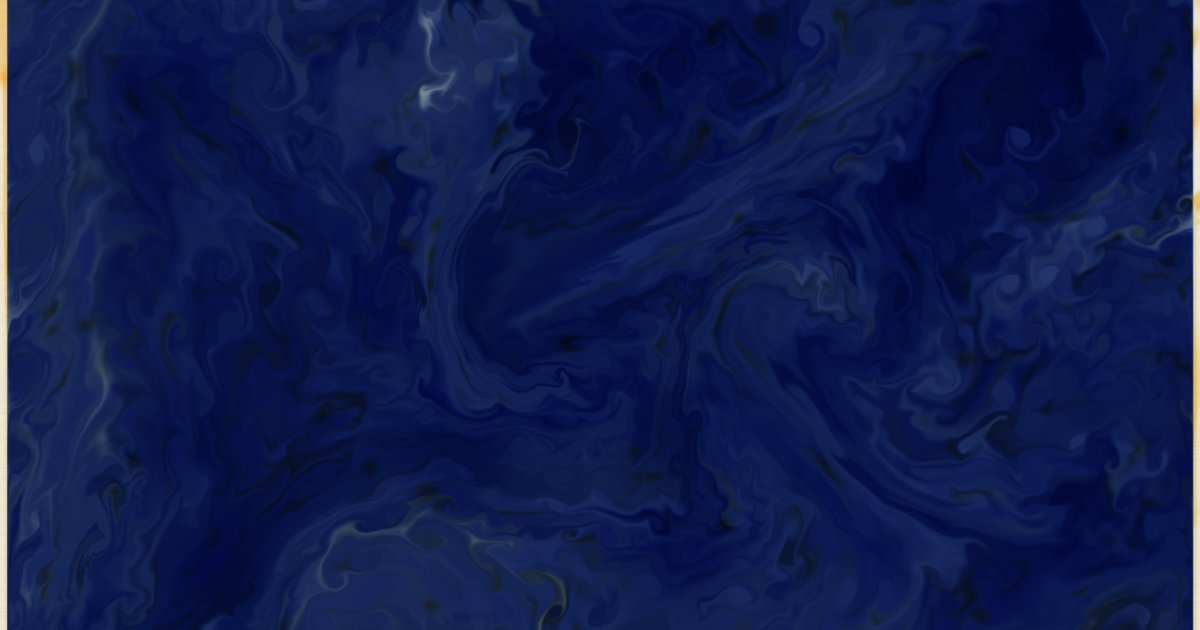
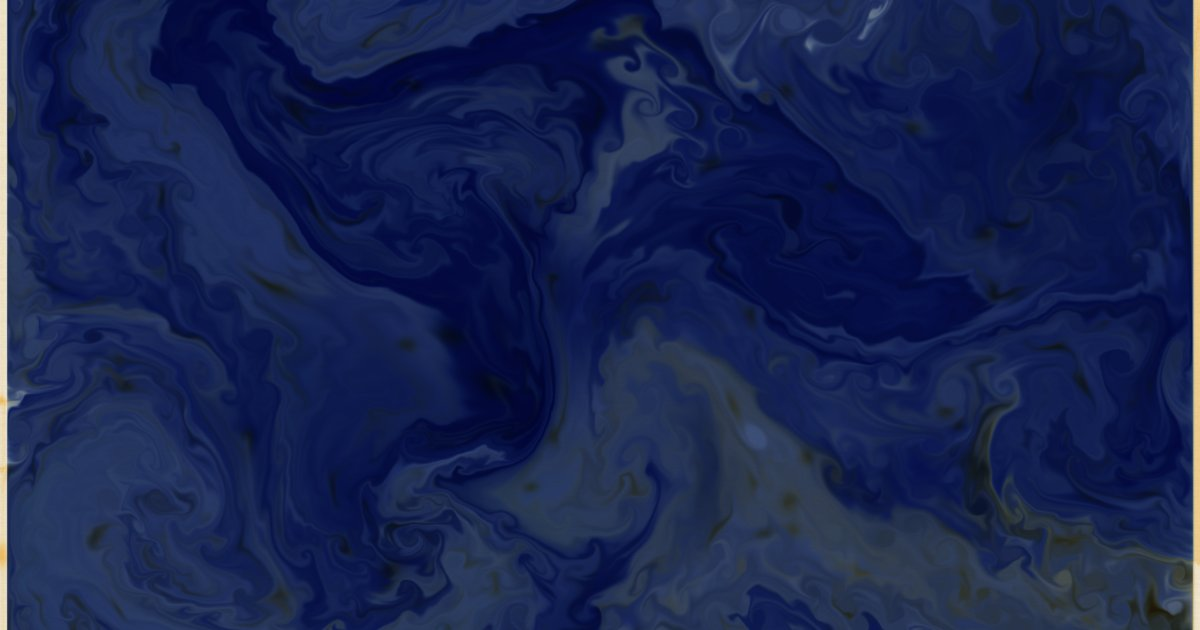
sheets 2026-11-21

diff --git a/site/sheets/index.html b/site/sheets/index.html
@@ -1,6 +1,6 @@
 <!DOCTYPE html><html lang="en-GB"><head><meta charset="utf-8"><meta name="viewport" content="width=device-width,initial-scale=1">
 <title>Sheets · æsthetoica</title><meta name="description" content="Every marbled sheet pulled from the tray, one a day, numbered on from Thomasin Gale&#x27;s first in 1823.">
-<link rel="canonical" href="https://aesthetoica.com/sheets/"><meta property="og:type" content="website"><meta property="og:site_name" content="æsthetoica"><meta property="og:locale" content="en_GB"><meta property="og:url" content="https://aesthetoica.com/sheets/"><meta property="og:title" content="Sheets · æsthetoica"><meta property="og:description" content="Every marbled sheet pulled from the tray, one a day, numbered on from Thomasin Gale&#x27;s first in 1823."><meta property="og:image" content="https://aesthetoica.com/sheets/74133/og.jpg"><meta property="og:image:width" content="1200"><meta property="og:image:height" content="630"><meta property="og:image:alt" content="A marbled sheet"><meta name="twitter:card" content="summary_large_image"><meta name="twitter:title" content="Sheets · æsthetoica"><meta name="twitter:description" content="Every marbled sheet pulled from the tray, one a day, numbered on from Thomasin Gale&#x27;s first in 1823."><meta name="twitter:image" content="https://aesthetoica.com/sheets/74133/og.jpg">
+<link rel="canonical" href="https://aesthetoica.com/sheets/"><meta property="og:type" content="website"><meta property="og:site_name" content="æsthetoica"><meta property="og:locale" content="en_GB"><meta property="og:url" content="https://aesthetoica.com/sheets/"><meta property="og:title" content="Sheets · æsthetoica"><meta property="og:description" content="Every marbled sheet pulled from the tray, one a day, numbered on from Thomasin Gale&#x27;s first in 1823."><meta property="og:image" content="https://aesthetoica.com/sheets/74134/og.jpg"><meta property="og:image:width" content="1200"><meta property="og:image:height" content="630"><meta property="og:image:alt" content="A marbled sheet"><meta name="twitter:card" content="summary_large_image"><meta name="twitter:title" content="Sheets · æsthetoica"><meta name="twitter:description" content="Every marbled sheet pulled from the tray, one a day, numbered on from Thomasin Gale&#x27;s first in 1823."><meta name="twitter:image" content="https://aesthetoica.com/sheets/74134/og.jpg">
 <link rel="icon" href="/favicon.ico" sizes="any"><link rel="icon" href="/favicon.svg" type="image/svg+xml"><link rel="apple-touch-icon" href="/apple-touch-icon.png"><link rel="manifest" href="/site.webmanifest"><meta name="theme-color" content="#1f1b18"><link rel="preconnect" href="https://fonts.googleapis.com"><link rel="preconnect" href="https://fonts.gstatic.com" crossorigin><link href="https://fonts.googleapis.com/css2?family=IM+Fell+Double+Pica&family=IM+Fell+English:ital@0;1&family=IM+Fell+English+SC&family=Mrs+Saint+Delafield&display=swap" rel="stylesheet"><style>*{box-sizing:border-box;margin:0;padding:0}body{background:#1f1b18;color:#d8cdb8;font-family:'IM Fell English',Georgia,serif;min-height:100vh}
 a{color:inherit;text-underline-offset:3px}.top{display:flex;justify-content:space-between;align-items:flex-end;padding:22px 5vw 18px}
 .wm{font-family:'IM Fell Double Pica',serif;font-size:44px;color:#efe4cf;text-decoration:none}.nav{font-size:16px;color:#bfb29b}.nav a{margin-left:16px}
@@ -13,8 +13,9 @@ a{color:inherit;text-underline-offset:3px}.top{display:flex;justify-content:spac
 .grid{display:grid;grid-template-columns:repeat(auto-fill,minmax(250px,1fr));gap:28px 26px;padding:10px 5vw 60px}.card{text-decoration:none;color:inherit}
 .card img{width:100%;aspect-ratio:3/2;object-fit:cover;display:block;box-shadow:0 4px 10px rgba(0,0,0,.5)}.card .no{margin-top:10px;font-size:18px;color:#efe4cf}.card .dd{font-style:italic;font-size:14.5px;color:#a99c86}
 .card .ln{font-family:'Mrs Saint Delafield',cursive;font-size:24px;line-height:1.05;color:#c9d2ea;margin-top:4px}
-h1.ar{font-family:'IM Fell Double Pica',serif;font-weight:400;font-size:40px;padding:0 5vw;color:#efe4cf}.sub{font-style:italic;color:#a99c86;padding:4px 5vw 18px}</style><script type="application/ld+json">{"@context": "https://schema.org", "@graph": [{"@type": "CollectionPage", "@id": "https://aesthetoica.com/sheets/", "url": "https://aesthetoica.com/sheets/", "name": "Sheets", "description": "Every marbled sheet pulled from the tray, one a day, numbered on from Thomasin Gale's first in 1823.", "isPartOf": {"@id": "https://aesthetoica.com/#website"}, "creator": {"@id": "https://andy.fm/#andy"}, "hasPart": [{"@type": "VisualArtwork", "name": "Sheet No. 74,133", "url": "https://aesthetoica.com/sheets/74133/", "dateCreated": "2026-11-20"}, {"@type": "VisualArtwork", "name": "Sheet No. 74,132", "url": "https://aesthetoica.com/sheets/74132/", "dateCreated": "2026-11-19"}, {"@type": "VisualArtwork", "name": "Sheet No. 74,131", "url": "https://aesthetoica.com/sheets/74131/", "dateCreated": "2026-11-18"}, {"@type": "VisualArtwork", "name": "Sheet No. 74,130", "url": "https://aesthetoica.com/sheets/74130/", "dateCreated": "2026-11-17"}]}, {"@type": "Person", "@id": "https://andy.fm/#andy", "name": "Andy Killworth", "url": "https://andy.fm/", "sameAs": ["https://www.linkedin.com/in/andy-killworth/", "https://andy.fm/"]}]}</script></head><body><div class="top"><a class="wm" href="/">æsthetoica</a><div class="nav"><a href="/">Today’s tray</a><a href="/#on-the-word">On the word</a><a href="/about/">About</a></div></div>
-<h1 class="ar">Sheets</h1><div class="sub">Pulled at midnight, one a day. Numbered on from Thomasin Gale’s first, 3 December 1823.</div><div class="grid"><a class="card" href="/sheets/74133/"><img src="/sheets/74133/sheet.jpg" alt="Sheet No. 74,133" loading="lazy"><div class="no">Sheet No. 74,133</div><div class="dd">20 November 2026</div><div class="ln">Blue drops, over a thousand, unaccountable. Green slow, ochre as usual, nine red lines in the small hours.</div></a>
+h1.ar{font-family:'IM Fell Double Pica',serif;font-weight:400;font-size:40px;padding:0 5vw;color:#efe4cf}.sub{font-style:italic;color:#a99c86;padding:4px 5vw 18px}</style><script type="application/ld+json">{"@context": "https://schema.org", "@graph": [{"@type": "CollectionPage", "@id": "https://aesthetoica.com/sheets/", "url": "https://aesthetoica.com/sheets/", "name": "Sheets", "description": "Every marbled sheet pulled from the tray, one a day, numbered on from Thomasin Gale's first in 1823.", "isPartOf": {"@id": "https://aesthetoica.com/#website"}, "creator": {"@id": "https://andy.fm/#andy"}, "hasPart": [{"@type": "VisualArtwork", "name": "Sheet No. 74,134", "url": "https://aesthetoica.com/sheets/74134/", "dateCreated": "2026-11-21"}, {"@type": "VisualArtwork", "name": "Sheet No. 74,133", "url": "https://aesthetoica.com/sheets/74133/", "dateCreated": "2026-11-20"}, {"@type": "VisualArtwork", "name": "Sheet No. 74,132", "url": "https://aesthetoica.com/sheets/74132/", "dateCreated": "2026-11-19"}, {"@type": "VisualArtwork", "name": "Sheet No. 74,131", "url": "https://aesthetoica.com/sheets/74131/", "dateCreated": "2026-11-18"}, {"@type": "VisualArtwork", "name": "Sheet No. 74,130", "url": "https://aesthetoica.com/sheets/74130/", "dateCreated": "2026-11-17"}]}, {"@type": "Person", "@id": "https://andy.fm/#andy", "name": "Andy Killworth", "url": "https://andy.fm/", "sameAs": ["https://www.linkedin.com/in/andy-killworth/", "https://andy.fm/"]}]}</script></head><body><div class="top"><a class="wm" href="/">æsthetoica</a><div class="nav"><a href="/">Today’s tray</a><a href="/#on-the-word">On the word</a><a href="/about/">About</a></div></div>
+<h1 class="ar">Sheets</h1><div class="sub">Pulled at midnight, one a day. Numbered on from Thomasin Gale’s first, 3 December 1823.</div><div class="grid"><a class="card" href="/sheets/74134/"><img src="/sheets/74134/sheet.jpg" alt="Sheet No. 74,134" loading="lazy"><div class="no">Sheet No. 74,134</div><div class="dd">21 November 2026</div><div class="ln">Ochre as usual, green middling and steady. Blue fell in over eleven hundred drops, and no combing.</div></a>
+<a class="card" href="/sheets/74133/"><img src="/sheets/74133/sheet.jpg" alt="Sheet No. 74,133" loading="lazy"><div class="no">Sheet No. 74,133</div><div class="dd">20 November 2026</div><div class="ln">Blue drops, over a thousand, unaccountable. Green slow, ochre as usual, nine red lines in the small hours.</div></a>
 <a class="card" href="/sheets/74132/"><img src="/sheets/74132/sheet.jpg" alt="Sheet No. 74,132" loading="lazy"><div class="no">Sheet No. 74,132</div><div class="dd">19 November 2026</div><div class="ln">Ochre as usual, green steady. A hundred red lines before dawn, and blue drops past twelve hundred. Not combed.</div></a>
 <a class="card" href="/sheets/74131/"><img src="/sheets/74131/sheet.jpg" alt="Sheet No. 74,131" loading="lazy"><div class="no">Sheet No. 74,131</div><div class="dd">18 November 2026</div><div class="ln">Ochre usual, green steady. Red lines 66, all in the night hours, and blue drops 818. Not combed.</div></a>
 <a class="card" href="/sheets/74130/"><img src="/sheets/74130/sheet.jpg" alt="Sheet No. 74,130" loading="lazy"><div class="no">Sheet No. 74,130</div><div class="dd">17 November 2026</div><div class="ln">Ochre as usual, green steady. Blue came in 58 drops, red only four lines in the evening, and no combing.</div></a></div></body></html>

diff --git a/site/sheets/74134/index.html b/site/sheets/74134/index.html
@@ -1,0 +1,26 @@
+<!DOCTYPE html><html lang="en-GB"><head><meta charset="utf-8"><meta name="viewport" content="width=device-width,initial-scale=1">
+<title>Sheet No. 74,134 · 21 November 2026 · æsthetoica</title><meta name="description" content="Ochre as usual, green middling and steady. Blue fell in over eleven hundred drops, and no combing. The marbled sheet for 21 November 2026, made from cosmic rays, the magnetic field, meteors and other things that passed Lyme Regis unseen.">
+<link rel="canonical" href="https://aesthetoica.com/sheets/74134/"><meta property="og:type" content="article"><meta property="og:site_name" content="æsthetoica"><meta property="og:locale" content="en_GB"><meta property="og:url" content="https://aesthetoica.com/sheets/74134/"><meta property="og:title" content="Sheet No. 74,134 · 21 November 2026 · æsthetoica"><meta property="og:description" content="Ochre as usual, green middling and steady. Blue fell in over eleven hundred drops, and no combing. The marbled sheet for 21 November 2026, made from cosmic rays, the magnetic field, meteors and other things that passed Lyme Regis unseen."><meta property="og:image" content="https://aesthetoica.com/sheets/74134/og.jpg"><meta property="og:image:width" content="1200"><meta property="og:image:height" content="630"><meta property="og:image:alt" content="Marbled sheet No. 74,134, 21 November 2026"><meta name="twitter:card" content="summary_large_image"><meta name="twitter:title" content="Sheet No. 74,134 · 21 November 2026 · æsthetoica"><meta name="twitter:description" content="Ochre as usual, green middling and steady. Blue fell in over eleven hundred drops, and no combing. The marbled sheet for 21 November 2026, made from cosmic rays, the magnetic field, meteors and other things that passed Lyme Regis unseen."><meta name="twitter:image" content="https://aesthetoica.com/sheets/74134/og.jpg">
+<link rel="icon" href="/favicon.ico" sizes="any"><link rel="icon" href="/favicon.svg" type="image/svg+xml"><link rel="apple-touch-icon" href="/apple-touch-icon.png"><link rel="manifest" href="/site.webmanifest"><meta name="theme-color" content="#1f1b18">
+<link rel="preconnect" href="https://fonts.googleapis.com"><link rel="preconnect" href="https://fonts.gstatic.com" crossorigin><link href="https://fonts.googleapis.com/css2?family=IM+Fell+Double+Pica&family=IM+Fell+English:ital@0;1&family=IM+Fell+English+SC&family=Mrs+Saint+Delafield&display=swap" rel="stylesheet"><style>*{box-sizing:border-box;margin:0;padding:0}body{background:#1f1b18;color:#d8cdb8;font-family:'IM Fell English',Georgia,serif;min-height:100vh}
+a{color:inherit;text-underline-offset:3px}.top{display:flex;justify-content:space-between;align-items:flex-end;padding:22px 5vw 18px}
+.wm{font-family:'IM Fell Double Pica',serif;font-size:44px;color:#efe4cf;text-decoration:none}.nav{font-size:16px;color:#bfb29b}.nav a{margin-left:16px}
+.leaf{max-width:1100px;margin:0 auto 60px;padding:0 5vw}.sheet{position:relative;box-shadow:0 6px 14px rgba(0,0,0,.55)}.sheet img{display:block;width:100%;height:auto}
+.plate{position:absolute;right:24px;bottom:22px;width:230px;padding:12px 16px 11px;background:#efe6d2;color:#3a2b1f;transform:rotate(-1.2deg);box-shadow:0 1px 2px rgba(60,40,20,.35)}
+.plate .t{font-family:'IM Fell English SC',serif;font-size:15px}.plate .n{font-size:26px;line-height:1.05}.plate .d{font-style:italic;font-size:15px;color:#5a4330}
+.note{background:#f1e9d6;color:#2f241b;margin-top:28px;padding:30px 40px 34px}.ledger{font-family:'Mrs Saint Delafield',cursive;font-size:34px;line-height:1.15;color:#2c3550}
+.note h2{font-family:'IM Fell English SC',serif;font-weight:400;font-size:17px;color:#5a4634;margin:22px 0 8px}.note ul{list-style:none}.note li{font-size:17px;line-height:1.5}.note li b{font-weight:400;color:#6b2a1f}
+.pn{display:flex;justify-content:space-between;margin-top:20px;font-size:16px;color:#bfb29b}
+.grid{display:grid;grid-template-columns:repeat(auto-fill,minmax(250px,1fr));gap:28px 26px;padding:10px 5vw 60px}.card{text-decoration:none;color:inherit}
+.card img{width:100%;aspect-ratio:3/2;object-fit:cover;display:block;box-shadow:0 4px 10px rgba(0,0,0,.5)}.card .no{margin-top:10px;font-size:18px;color:#efe4cf}.card .dd{font-style:italic;font-size:14.5px;color:#a99c86}
+.card .ln{font-family:'Mrs Saint Delafield',cursive;font-size:24px;line-height:1.05;color:#c9d2ea;margin-top:4px}
+h1.ar{font-family:'IM Fell Double Pica',serif;font-weight:400;font-size:40px;padding:0 5vw;color:#efe4cf}.sub{font-style:italic;color:#a99c86;padding:4px 5vw 18px}</style><script type="application/ld+json">{"@context": "https://schema.org", "@graph": [{"@type": "VisualArtwork", "name": "Sheet No. 74,134", "dateCreated": "2026-11-21", "image": "https://aesthetoica.com/sheets/74134/sheet.jpg", "artMedium": "Simulated marbling driven by live data", "artform": "Generative print", "locationCreated": {"@type": "Place", "name": "Lyme Regis, Dorset"}, "isPartOf": {"@type": "Collection", "name": "æsthetoica sheets", "url": "https://aesthetoica.com/sheets/"}, "url": "https://aesthetoica.com/sheets/74134/", "creator": {"@id": "https://andy.fm/#andy"}, "description": "Ochre as usual, green middling and steady. Blue fell in over eleven hundred drops, and no combing. The marbled sheet for 21 November 2026, made from cosmic rays, the magnetic field, meteors and other things that passed Lyme Regis unseen."}, {"@type": "Person", "@id": "https://andy.fm/#andy", "name": "Andy Killworth", "url": "https://andy.fm/", "sameAs": ["https://www.linkedin.com/in/andy-killworth/", "https://andy.fm/"]}]}</script></head><body>
+<div class="top"><a class="wm" href="/">æsthetoica</a><div class="nav"><a href="/#day-2026-11-21">Open this sheet in the tray</a><a href="/sheets/">All sheets</a><a href="/about/">About</a></div></div>
+<div class="leaf"><div class="sheet"><img src="/sheets/74134/sheet.jpg" alt="Marbled sheet No. 74,134, 21 November 2026" width="1800" height="1200">
+<div class="plate"><div class="t">æsthetoica</div><div class="n">Sheet No. 74,134</div><div class="d">21 November 2026</div><div class="d">Lyme Regis</div><div class="d">Pulled at midnight</div></div></div>
+<div class="note"><div class="ledger">Ochre as usual, green middling and steady. Blue fell in over eleven hundred drops, and no combing.</div><h2>What fell into the tray</h2><ul><li><b>Ochre</b> cosmic-ray neutrons at Kiel, -0.6% against the usual.</li>
+<li><b>Verdigris</b> the magnetic field at Dourbes reached about Kp 3.</li>
+<li><b>Indigo</b> 1151 edits to obscure Wikipedia articles, among them ‘Creature (Within the Ruins album)’, ‘Ghost Soldier (film)’, ‘Pac-Man and the Ghostly Adventures 2’.</li>
+<li><b>Carmine</b> 504 meteors within 400 km of Lyme Regis, 49 of them bright, Leonid, Northern Taurid among them.</li>
+<li><b>The rocking</b> the National Grid ran between 49.825 and 50.173 Hz.</li></ul></div>
+<div class="pn"><a href="/sheets/74133/">Sheet No. 74,133</a><span></span></div></div></body></html>

diff --git a/site/sheets/74133/index.html b/site/sheets/74133/index.html
@@ -23,4 +23,4 @@ h1.ar{font-family:'IM Fell Double Pica',serif;font-weight:400;font-size:40px;pad
 <li><b>Indigo</b> 1083 edits to obscure Wikipedia articles, among them ‘Mark Millar’, ‘List of Ghosts (American TV series) episodes’, ‘Blake Miller (center)’.</li>
 <li><b>Carmine</b> 92 meteors within 400 km of Lyme Regis, 9 of them bright, Leonid, Northern Taurid among them.</li>
 <li><b>The rocking</b> the National Grid ran between 49.815 and 50.151 Hz.</li></ul></div>
-<div class="pn"><a href="/sheets/74132/">Sheet No. 74,132</a><span></span></div></div></body></html>
+<div class="pn"><a href="/sheets/74132/">Sheet No. 74,132</a><a href="/sheets/74134/">Sheet No. 74,134</a></div></div></body></html>
